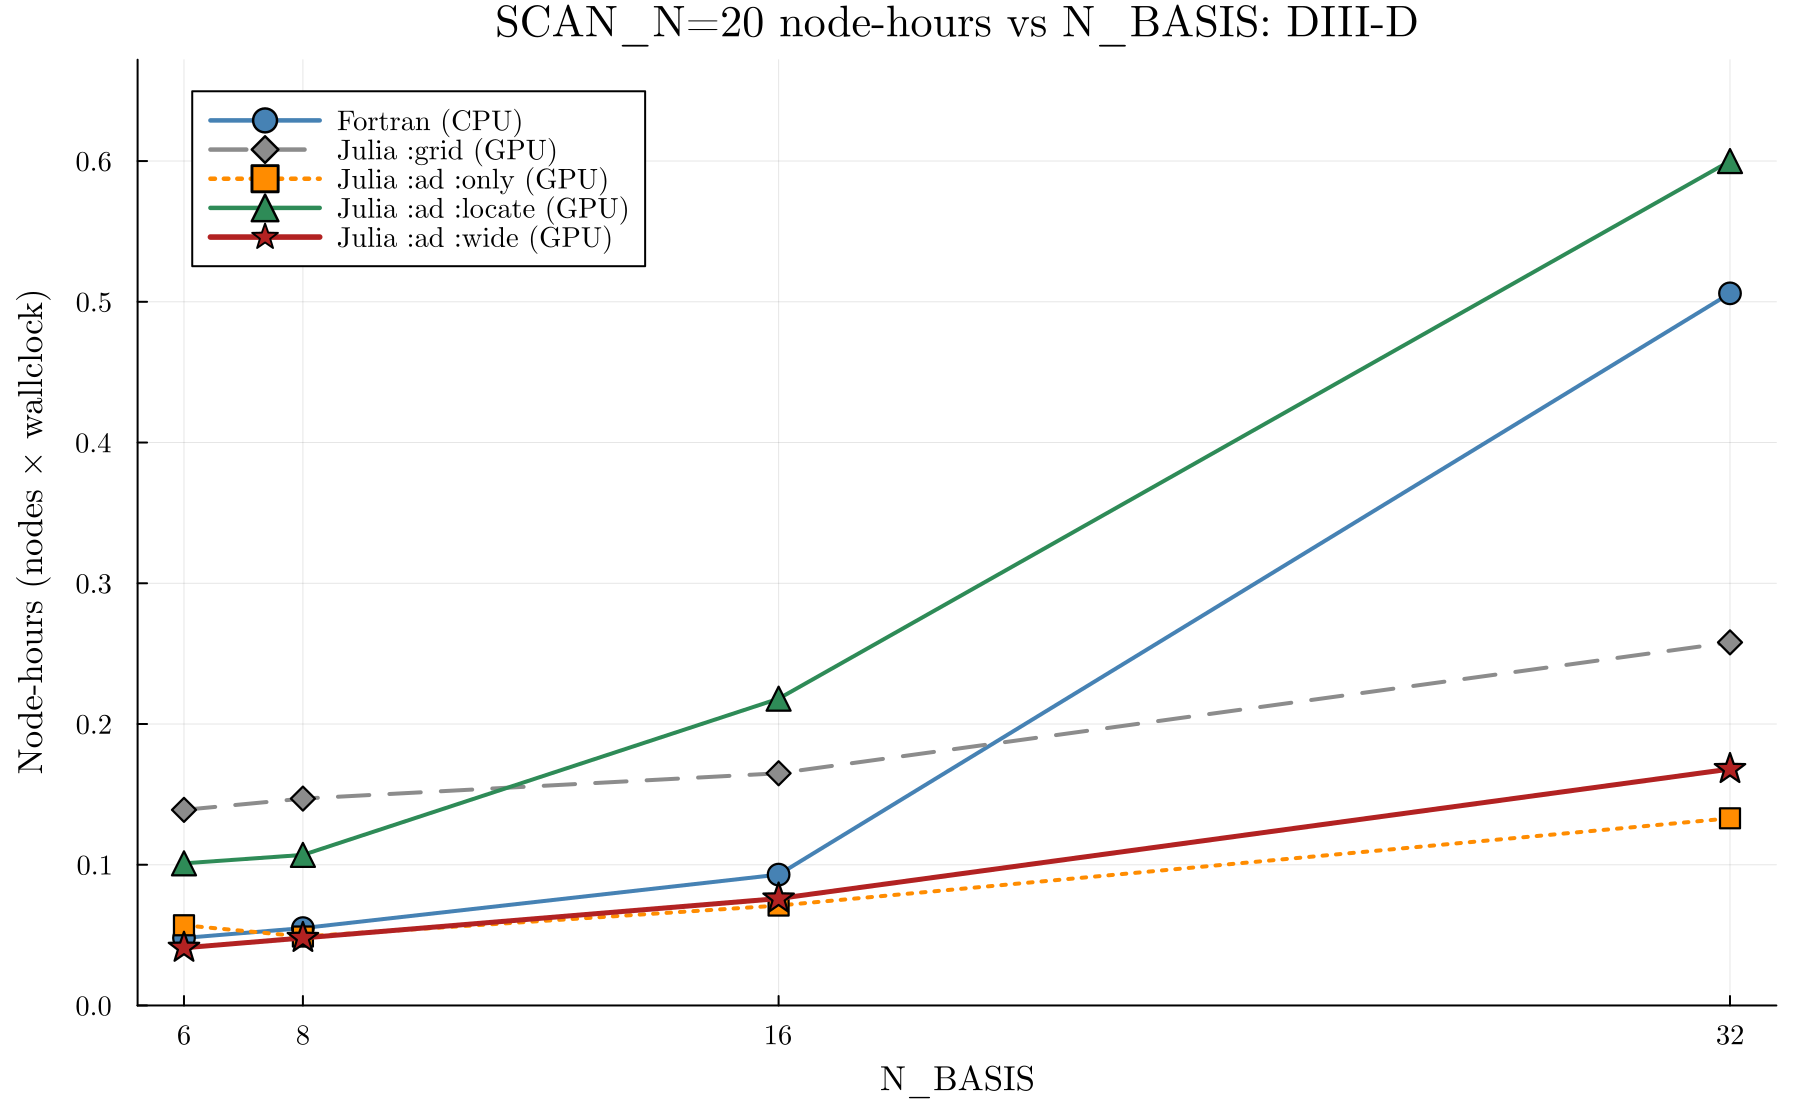
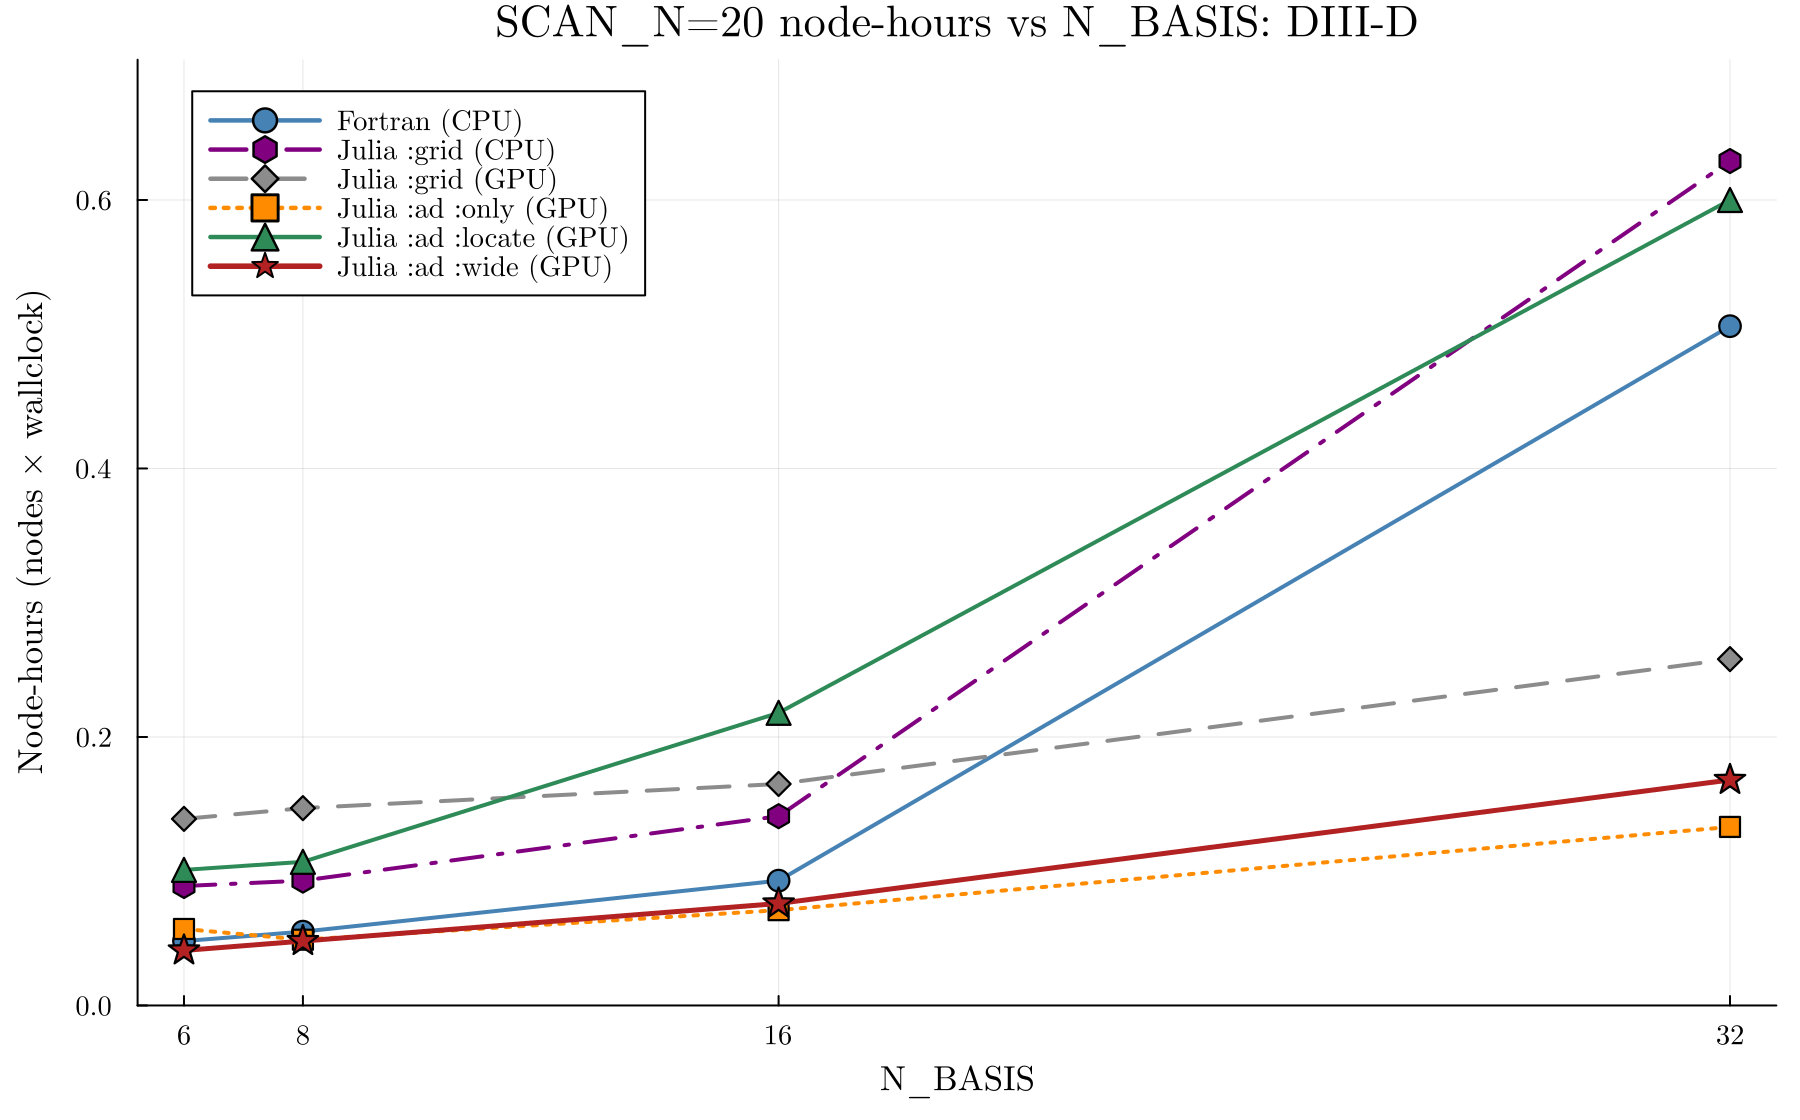
Update Julia CPU timings, plots and docs for the faster CPU grid path
Re-measured the Julia :grid CPU column of both 20-radius benchmarks on
10 nodes (2026-11-10): the reactor case now takes 1.09-1.67x the Fortran
wallclock (was 4-7x) and the DIII-D case 1.24-1.88x. Both node-hours
plots show the CPU series next to Fortran; the DIII-D plot did not show
it before. The CPU launcher now pins its workers concurrently, which
takes ~13 s off worker start-up.

diff --git a/docs/BENCHMARKS.md b/docs/BENCHMARKS.md
@@ -51,16 +51,16 @@ elsewhere). `:ad :wide` stays within ~1–1.8× of `:ad :locate` and never below
 single pass misses the located optimum at IR 117, 3.9×, and lands above `grid` at IR 22).
 Colors and legend order match the node-hours plot below for quick cross-reference.
 
-![UCP node-hours vs N_BASIS](https://raw.githubusercontent.com/ProjectTorreyPines/TGLFEP.jl/master/docs/plots/ucp_scan20_timing_nodehours.png?v=3)
+![UCP node-hours vs N_BASIS](https://raw.githubusercontent.com/ProjectTorreyPines/TGLFEP.jl/master/docs/plots/ucp_scan20_timing_nodehours.png?v=4)
 
 Absolute node-hours at `N_BASIS=32`, each solver on its fastest layout (Fortran
 `-n 1280` on 10 CPU nodes; `grid`/`:ad :only` on 5 MPS GPU nodes; `:ad
 :locate`/`:ad :wide` on a 1-node backfill with 4 GPU workers draining a 20-radius
 queue): Fortran ≈2.46; `:ad :only` ≈0.28, `:ad :wide` ≈0.39, `grid` ≈0.49,
 `:ad :locate` ≈1.16 — so **every GPU tier beats the fully-parallel Fortran**
-(~8.9× / ~6.3× / ~5.0× / ~2.1×). Julia `:grid` on **CPU** (≈13.6, same 10 nodes as
-Fortran) is ~5.5× *slower* than Fortran: the GPU eigensolver is what makes the Julia
-port competitive. The GPU advantage *grows* with `N_BASIS` (Fortran is cheaper at
+(~8.9× / ~6.3× / ~5.0× / ~2.1×). Julia `:grid` on **CPU** (≈2.81, same 10 nodes as
+Fortran) costs 1.14× the Fortran run, so it is the GPU eigensolver that puts the Julia
+port ahead. The GPU advantage *grows* with `N_BASIS` (Fortran is cheaper at
 `N_BASIS = 8`, break-even is near 16, and the GPU pulls ~5–9× ahead by 32) as the
 eigenmatrix grows: at `N_BASIS=48` (Fortran ≈8.15 node-hours) the margins are
 `:grid` **~7.1×** (≈1.14), `:ad :only` **~9.5×** (≈0.86), `:ad :wide` **~7.5×**
@@ -95,16 +95,17 @@ basis dynamically, so the Julia solvers run any `N_BASIS` unmodified.
 
 | N_BASIS | Fortran CPU (s) | Julia CPU (s) | Julia GPU MPS (s) | GPU speedup vs Fortran (wallclock) |
 |--------:|----------------:|--------------:|------------------:|-----------------------------------:|
-| 8  | 26.2   | 113.3   | 113.0 | 0.23× |
-| 16 | 111.5  | 650.4   | 158.0 | 0.71× |
-| 32 | 886.9  | 4893.2  | 353.0 | **2.51×** |
-| 48 | 2933.5 | 19255.8 | 821.0 | **3.57×** |
+| 8  | 26.2   | 43.8    | 113.0 | 0.23× |
+| 16 | 111.5  | 140.9   | 158.0 | 0.71× |
+| 32 | 886.9  | 1010.4  | 353.0 | **2.51×** |
+| 48 | 2933.5 | 3208.3  | 821.0 | **3.57×** |
 
 (Wallclock here compares a **5-node** GPU run to a **10-node** `-n 1280` Fortran run
 — *half* the nodes — so it understates the GPU, yet it still wins 2.5× at
 `N_BASIS=32` and 3.6× at 48; the fair node-count-normalized margins are ~5.0× and
-~7.1×. Julia `:grid` on CPU, on the same 10 nodes as Fortran, is ~4–7×
-*slower* at every `N_BASIS`, so the GPU is doing the heavy lifting. The 48
+~7.1×. Julia `:grid` on CPU, on the same 10 nodes as Fortran, takes 1.1–1.7×
+the Fortran wallclock (1.67× at `N_BASIS=8`, where ~17 s of worker start-up dominates; 1.14× at
+32 and 1.09× at 48), so the GPU is doing the heavy lifting. The 48
 Fortran time uses the `nb=48` rebuild described above.)
 
 **`:ad :only` (bare `w≥1` AD, no faithful confirm)**: Julia GPU (5 A100 nodes,
@@ -127,8 +128,9 @@ is the *same* `ad` solver run two ways: on an **MPS team** instead of threads it
 so team-spawn/remote-call overhead never amortizes. **Rule of thumb: `grid` → MPS,
 `ad` → threads.**
 
-Data: `docs/plots/ucp_scan20_timing.csv` (2026-10 campaign; the Julia CPU `N_BASIS=48` row is
-filled in when that run completes). Reproduce with
+Data: `docs/plots/ucp_scan20_timing.csv` (2026-10 campaign; the Julia CPU column was re-measured
+2026-11-10 with `slurm/tglfep_julia_cpu_10N.sbatch`, after the CPU path began reusing its solver
+buffers and pinning one thread per physical core). Reproduce with
 `dev/timing/submit_ucp_scan20.sh` (Fortran `-n 1280` + all GPU tiers). The
 smaller DIII-D verification case (bit-for-bit Fortran match) is in
 [`docs/README_DIII-D_example.md`](docs/README_DIII-D_example.md).

diff --git a/docs/README_DIII-D_example.md b/docs/README_DIII-D_example.md
@@ -51,7 +51,7 @@ different branch (7.3 vs 2.6). `:ad :locate` (green) drops below `grid` into the
 single seed pass lands 1.5–1.8× above `:locate` (and above `grid`). Colors and legend order
 match the node-hours plot below for quick cross-reference.
 
-![Node-hours vs N_BASIS](https://raw.githubusercontent.com/ProjectTorreyPines/TGLFEP.jl/master/docs/plots/scan20_timing_wide_lines.png?v=8)
+![Node-hours vs N_BASIS](https://raw.githubusercontent.com/ProjectTorreyPines/TGLFEP.jl/master/docs/plots/scan20_timing_wide_lines.png?v=9)
 
 Absolute node-hours at `N_BASIS=32`, each solver on its fastest layout (Fortran
 `-n 1280` on 10 CPU nodes; `grid`/`:ad :only` on 5 MPS GPU nodes; `:ad
@@ -61,7 +61,9 @@ queue): Fortran ≈0.51; `grid` ≈0.26, `:ad :only` ≈0.13, `:ad :wide` ≈0.1
 Fortran (~2.0×/~3.8×/~3.0×), and `:ad :locate` sits above it (~1.2× the Fortran cost) —
 the price of the `0.5 ≤ w < 1` accuracy. `:ad :wide` is ~3.6× cheaper than `:locate` at
 `N_BASIS=32` (2.2–2.9× at 6–16; the gap widens with `N_BASIS`, where the faithful confirm
-costs more). The per-backend tables below give the raw wallclock seconds.
+costs more). Julia `:grid` on CPU, on the same 10 nodes as Fortran, is ≈0.63 node-hours at
+`N_BASIS=32`, 1.24× the Fortran cost (1.5–1.9× at 6–16, where ~17 s of worker start-up weighs
+more). The per-backend tables below give the raw wallclock seconds.
 
 **Best-throughput layout depends on the solver** (for these `SCAN_N=20` runs):
 - **`:grid` and `:ad :only` → 5 GPU nodes.** Per-radius cost is uniform, so
@@ -78,10 +80,10 @@ costs more). The per-backend tables below give the raw wallclock seconds.
 
 | N_BASIS | Fortran CPU (s) | Julia CPU (s) | Julia GPU MPS (s) | GPU speedup vs Fortran (wallclock) |
 |--------:|----------------:|--------------:|------------------:|-----------------------------------:|
-| 6  | 17.1  | 141.3   | 100.0 | 0.17× |
-| 8  | 19.7  | 148.4   | 106.0 | 0.19× |
-| 16 | 33.5  | 250.0   | 119.0 | 0.28× |
-| 32 | 182.3 | 902.3   | 186.0 | 0.98× |
+| 6  | 17.1  | 32.2    | 100.0 | 0.17× |
+| 8  | 19.7  | 33.5    | 106.0 | 0.19× |
+| 16 | 33.5  | 50.8    | 119.0 | 0.28× |
+| 32 | 182.3 | 226.3   | 186.0 | 0.98× |
 
 (Wallclock here compares a **5-node** GPU run to a **10-node** `-n 1280` Fortran
 run — twice the nodes — so raw wallclock favors Fortran. The fair,
@@ -112,8 +114,10 @@ profile at `N_BASIS=32`) is documented in
 [`docs/AD_SOLVERS_AND_SEARCH_BOUNDS.md`](https://github.com/ProjectTorreyPines/TGLFEP.jl/blob/master/docs/AD_SOLVERS_AND_SEARCH_BOUNDS.md).
 
 Data: `docs/plots/scan20_timing.csv` (GPU tiers measured 2026-10-31/11-01 on v2.0.18 with
-`WIDTH_FLOOR = 0.5`; the Fortran and Julia-CPU rows for `N_BASIS ≤ 16` are the 2026-07
-measurement, which the width floor does not touch, and their `N_BASIS = 32` rows are from
-2026-10-24). Reproduce: grid sweep with
+`WIDTH_FLOOR = 0.5`; the Fortran rows for `N_BASIS ≤ 16` are the 2026-07
+measurement, which the width floor does not touch, and its `N_BASIS = 32` row is from
+2026-10-24; the Julia-CPU column was re-measured 2026-11-10 with
+`slurm/tglfep_julia_cpu_10N.sbatch`, after the CPU path began reusing its solver buffers and
+pinning one thread per physical core). Reproduce: grid sweep with
 `dev/timing/submit_timing_vs_nbasis.sh`, AD sweep with
 `dev/timing/submit_timing_vs_nbasis_ad.sh` (capability 4).

diff --git a/slurm/README.md b/slurm/README.md
@@ -15,7 +15,7 @@ sbatch slurm/tglfep_julia_gpu_backfill.sbatch
 | `tglfep_julia_gpu_5N.sbatch` | 5 GPU | 20 tasks = 20 radii in one wave, 1 A100 + MPS team per radius | **high throughput** for uniform-cost solvers: `grid`, `ad :only` |
 | `tglfep_julia_gpu_backfill.sbatch` | 1 GPU | 4 tasks (one per A100) drain a shared radius queue | **low footprint**, and the right choice for the **extended-width solvers**: `ad :locate`, `ad :wide`, `robust_ad`, `truth` |
 | `tglfep_julia_cpu_10N.sbatch` | 10 CPU | 20 workers, one per radius | high throughput without a GPU allocation |
-| `tglfep_julia_cpu_1N.sbatch` | 1 CPU | 2 workers x 64 threads, pmap over radii | low footprint without a GPU allocation (slow: use `N_BASIS <= 16`) |
+| `tglfep_julia_cpu_1N.sbatch` | 1 CPU | 2 workers x 64 threads, pmap over radii | low footprint without a GPU allocation (about 10x the 10-node wall) |
 | `tglfep_julia_merge.sbatch` | 1 CPU | re-merge an existing output dir | only if a GPU job's final merge step failed |
 
 `SCAN_N=20` is the default in every example input. The 5N/10N templates run **one radius per
@@ -35,7 +35,7 @@ nodes = 2.46 node-hours, measured 2026-10 on v2.0.18 with the `WIDTH_FLOOR = 0.5
 | `ad` + `AD_EXTEND_MODE=locate` **(default)** | extended | gpu_backfill | `mps_team` | 1.16 | Adds the narrower-width (`0.5 <= w < 1`, never below the physics floor `WIDTH_FLOOR = 0.5`) EP-driven Alfven modes Fortran misses; the faithful extended-width value. Production / `ActorTJLFEP` default. |
 | `ad` + `AD_EXTEND_MODE=wide` | extended | gpu_backfill | `mps_team` | 0.39 | One log-seeded narrow-width pass: ~3x cheaper than `locate`, conservative (within 1-2x of it, never below). Bulk NN-database generation. |
 | `robust_ad`, `truth` | extended | gpu_backfill | `mps_team` | higher | Reference tiers above `locate` (`truth` adds an `N_BASIS` ladder; ~34 min per DIII-D profile at nb32). Validation only. |
-| `grid` on CPU | `w >= 1` | cpu_10N / cpu_1N | pmap | 13.6 | Same result as GPU `grid`, ~28x the node-hours. |
+| `grid` on CPU | `w >= 1` | cpu_10N / cpu_1N | pmap | 2.81 | Same result as GPU `grid`, ~6x the node-hours (1.14x the Fortran run). |
 
 With the ballooning-width physics floor `WIDTH_FLOOR = 0.5` the extended solvers search a bounded box: they
 land 1-4x below `grid` (not the up-to-16x of the earlier unbounded search) and cost 20-50 % less than before.

diff --git a/README.md b/README.md
@@ -49,7 +49,7 @@ sbatch slurm/tglfep_julia_gpu_backfill.sbatch
 | `slurm/tglfep_julia_gpu_5N.sbatch` | 5 GPU nodes, 20 radii in one wave | high throughput: `grid`, `ad :only` |
 | `slurm/tglfep_julia_gpu_backfill.sbatch` | 1 GPU node, 4 GPUs drain a radius queue | low footprint, and the extended-width solvers `ad :locate`/`:wide`, `robust_ad`, `truth` |
 | `slurm/tglfep_julia_cpu_10N.sbatch` | 10 CPU nodes, one worker per radius | no GPU allocation |
-| `slurm/tglfep_julia_cpu_1N.sbatch` | 1 CPU node, 2 workers | smallest footprint (slow) |
+| `slurm/tglfep_julia_cpu_1N.sbatch` | 1 CPU node, 2 workers | smallest footprint (about 10x the 10-node wall) |
 
 Every solver option is a labelled line in the template; the physics (`SCAN_N`, `N_BASIS`,
 `WIDTH_MIN/MAX`, `FACTOR_IN`, ...) stays in the `input.TGLFEP` file, exactly as for the
@@ -136,7 +136,8 @@ physics-parity notes in [`docs/FORTRAN_JULIA_COMPARISON.md`](docs/FORTRAN_JULIA_
 
 Node-hours at `N_BASIS=32` on `UCP_complete` (20 radii, measured 2026-10 on v2.0.18 with the
 `WIDTH_FLOOR = 0.5` default): Fortran `-n 1280` ≈ 2.46; `:ad :only` ≈ 0.28, `:ad :wide` ≈ 0.39,
-`:grid` ≈ 0.49, `:ad :locate` ≈ 1.16. The GPU margin grows with `N_BASIS` (Fortran is cheaper at
+`:grid` ≈ 0.49, `:ad :locate` ≈ 1.16; `:grid` without a GPU, on the same 10 CPU nodes as
+Fortran, ≈ 2.81 (re-measured 2026-11). The GPU margin grows with `N_BASIS` (Fortran is cheaper at
 8, break-even near 16, ~7–9× at 48), and stock Fortran TGLF cannot run
 `N_BASIS>32` without a rebuild. Tables, plots, accuracy comparison and the DIII-D case:
 [`docs/BENCHMARKS.md`](docs/BENCHMARKS.md), [`docs/README_DIII-D_example.md`](docs/README_DIII-D_example.md);
